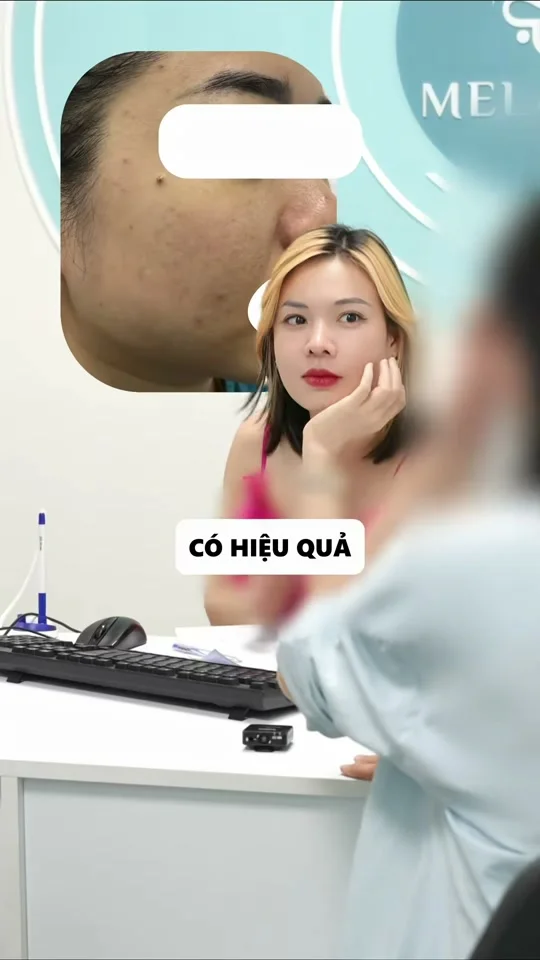
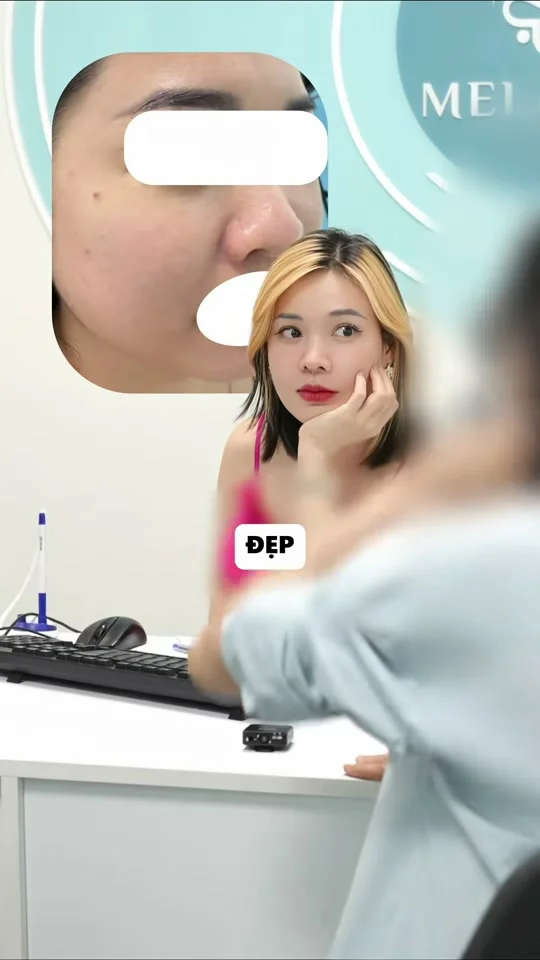
fix(kenh): update sequential frames for mh_khach_ke and add scroll-margin-top

diff --git a/logic-xay-kenh-tong-hop.html b/logic-xay-kenh-tong-hop.html
@@ -1431,6 +1431,7 @@
   }
 
   .lx-rw-showcase {
+    scroll-margin-top: 96px;
     margin-top: 16px;
     padding: 20px;
     background: #ffffff;
@@ -2177,31 +2178,31 @@
 </div>
 <div class="lx-rw-body">
 <div class="lx-rw-video-wrap">
-<video controls="" playsinline="" poster="https://media.fedu.vn/images/minh_hoa_viec_that/mh_khach_ke_03.webp" preload="metadata" src="https://media.fedu.vn/videos/mh_khach_ke_qua_vai.mp4"></video>
+<video controls="" playsinline="" poster="https://media.fedu.vn/images/minh_hoa_viec_that/mh_khach_ke_03.webp?v=2" preload="metadata" src="https://media.fedu.vn/videos/mh_khach_ke_qua_vai.mp4"></video>
 </div>
 <div class="lx-rw-shots">
 <div class="lx-rw-shot">
-<img alt="Cảnh 1 Quay qua vai khách tại bàn tư vấn" loading="lazy" src="https://media.fedu.vn/images/minh_hoa_viec_that/mh_khach_ke_01.webp"/>
+<img alt="Cảnh 1 Quay qua vai khách tại bàn tư vấn" loading="lazy" src="https://media.fedu.vn/images/minh_hoa_viec_that/mh_khach_ke_01.webp?v=2"/>
 <div class="lx-rw-shot-cap"><b>CẢNH 01 · 0–2s</b>Góc qua vai khách (không lộ mặt), ảnh da che mắt</div>
 </div>
 <div class="lx-rw-shot">
-<img alt="Cảnh 2 Giường khách đang làm thật" loading="lazy" src="https://media.fedu.vn/images/minh_hoa_viec_that/mh_khach_ke_02.webp"/>
+<img alt="Cảnh 2 Giường khách đang làm thật" loading="lazy" src="https://media.fedu.vn/images/minh_hoa_viec_that/mh_khach_ke_02.webp?v=2"/>
 <div class="lx-rw-shot-cap"><b>CẢNH 02 · 2–5s</b>Tiếng khách vẫn kể, hình cắt vào giường làm thật</div>
 </div>
 <div class="lx-rw-shot lx-rw-shot--highlight">
-<img alt="Cảnh 3 Toàn cảnh phòng 6 giường kín khách" loading="lazy" src="https://media.fedu.vn/images/minh_hoa_viec_that/mh_khach_ke_03.webp"/>
+<img alt="Cảnh 3 Toàn cảnh phòng 6 giường kín khách" loading="lazy" src="https://media.fedu.vn/images/minh_hoa_viec_that/mh_khach_ke_03.webp?v=2"/>
 <div class="lx-rw-shot-cap"><b>CẢNH 03 · 5–9s ⭐</b>Toàn cảnh 6 giường điều trị kín khách đang nằm</div>
 </div>
 <div class="lx-rw-shot lx-rw-shot--highlight">
-<img alt="Cảnh 4 Cận cảnh đi tia máy trên da thật" loading="lazy" src="https://media.fedu.vn/images/minh_hoa_viec_that/mh_khach_ke_04.webp"/>
+<img alt="Cảnh 4 Cận cảnh đi tia máy trên da thật" loading="lazy" src="https://media.fedu.vn/images/minh_hoa_viec_that/mh_khach_ke_04.webp?v=2"/>
 <div class="lx-rw-shot-cap"><b>CẢNH 04 · 9–12s ⭐</b>Cận tay đeo kính bảo hộ đi tia máy sát nền da</div>
 </div>
 <div class="lx-rw-shot">
-<img alt="Cảnh 5 Đứng cạnh giường theo dõi ca làm" loading="lazy" src="https://media.fedu.vn/images/minh_hoa_viec_that/mh_khach_ke_05.webp"/>
+<img alt="Cảnh 5 Đứng cạnh giường theo dõi ca làm" loading="lazy" src="https://media.fedu.vn/images/minh_hoa_viec_that/mh_khach_ke_05.webp?v=2"/>
 <div class="lx-rw-shot-cap"><b>CẢNH 05 · 12–17s</b>Đứng sát giường kiểm tra lúc khách kể chuyện</div>
 </div>
 <div class="lx-rw-shot">
-<img alt="Cảnh 6 Trò chuyện tự nhiên tại bàn có gương soi" loading="lazy" src="https://media.fedu.vn/images/minh_hoa_viec_that/mh_khach_ke_06.webp"/>
+<img alt="Cảnh 6 Trò chuyện tự nhiên tại bàn có gương soi" loading="lazy" src="https://media.fedu.vn/images/minh_hoa_viec_that/mh_khach_ke_06.webp?v=2"/>
 <div class="lx-rw-shot-cap"><b>CẢNH 06 · 18–32s</b>Về bàn tư vấn có gương soi, hỏi đáp tự nhiên</div>
 </div>
 </div>

diff --git a/trung-tam-kenh/logic-tong-hop.html b/trung-tam-kenh/logic-tong-hop.html
@@ -1431,6 +1431,7 @@
   }
 
   .lx-rw-showcase {
+    scroll-margin-top: 96px;
     margin-top: 16px;
     padding: 20px;
     background: #ffffff;
@@ -2177,31 +2178,31 @@
 </div>
 <div class="lx-rw-body">
 <div class="lx-rw-video-wrap">
-<video controls="" playsinline="" poster="https://media.fedu.vn/images/minh_hoa_viec_that/mh_khach_ke_03.webp" preload="metadata" src="https://media.fedu.vn/videos/mh_khach_ke_qua_vai.mp4"></video>
+<video controls="" playsinline="" poster="https://media.fedu.vn/images/minh_hoa_viec_that/mh_khach_ke_03.webp?v=2" preload="metadata" src="https://media.fedu.vn/videos/mh_khach_ke_qua_vai.mp4"></video>
 </div>
 <div class="lx-rw-shots">
 <div class="lx-rw-shot">
-<img alt="Cảnh 1 Quay qua vai khách tại bàn tư vấn" loading="lazy" src="https://media.fedu.vn/images/minh_hoa_viec_that/mh_khach_ke_01.webp"/>
+<img alt="Cảnh 1 Quay qua vai khách tại bàn tư vấn" loading="lazy" src="https://media.fedu.vn/images/minh_hoa_viec_that/mh_khach_ke_01.webp?v=2"/>
 <div class="lx-rw-shot-cap"><b>CẢNH 01 · 0–2s</b>Góc qua vai khách (không lộ mặt), ảnh da che mắt</div>
 </div>
 <div class="lx-rw-shot">
-<img alt="Cảnh 2 Giường khách đang làm thật" loading="lazy" src="https://media.fedu.vn/images/minh_hoa_viec_that/mh_khach_ke_02.webp"/>
+<img alt="Cảnh 2 Giường khách đang làm thật" loading="lazy" src="https://media.fedu.vn/images/minh_hoa_viec_that/mh_khach_ke_02.webp?v=2"/>
 <div class="lx-rw-shot-cap"><b>CẢNH 02 · 2–5s</b>Tiếng khách vẫn kể, hình cắt vào giường làm thật</div>
 </div>
 <div class="lx-rw-shot lx-rw-shot--highlight">
-<img alt="Cảnh 3 Toàn cảnh phòng 6 giường kín khách" loading="lazy" src="https://media.fedu.vn/images/minh_hoa_viec_that/mh_khach_ke_03.webp"/>
+<img alt="Cảnh 3 Toàn cảnh phòng 6 giường kín khách" loading="lazy" src="https://media.fedu.vn/images/minh_hoa_viec_that/mh_khach_ke_03.webp?v=2"/>
 <div class="lx-rw-shot-cap"><b>CẢNH 03 · 5–9s ⭐</b>Toàn cảnh 6 giường điều trị kín khách đang nằm</div>
 </div>
 <div class="lx-rw-shot lx-rw-shot--highlight">
-<img alt="Cảnh 4 Cận cảnh đi tia máy trên da thật" loading="lazy" src="https://media.fedu.vn/images/minh_hoa_viec_that/mh_khach_ke_04.webp"/>
+<img alt="Cảnh 4 Cận cảnh đi tia máy trên da thật" loading="lazy" src="https://media.fedu.vn/images/minh_hoa_viec_that/mh_khach_ke_04.webp?v=2"/>
 <div class="lx-rw-shot-cap"><b>CẢNH 04 · 9–12s ⭐</b>Cận tay đeo kính bảo hộ đi tia máy sát nền da</div>
 </div>
 <div class="lx-rw-shot">
-<img alt="Cảnh 5 Đứng cạnh giường theo dõi ca làm" loading="lazy" src="https://media.fedu.vn/images/minh_hoa_viec_that/mh_khach_ke_05.webp"/>
+<img alt="Cảnh 5 Đứng cạnh giường theo dõi ca làm" loading="lazy" src="https://media.fedu.vn/images/minh_hoa_viec_that/mh_khach_ke_05.webp?v=2"/>
 <div class="lx-rw-shot-cap"><b>CẢNH 05 · 12–17s</b>Đứng sát giường kiểm tra lúc khách kể chuyện</div>
 </div>
 <div class="lx-rw-shot">
-<img alt="Cảnh 6 Trò chuyện tự nhiên tại bàn có gương soi" loading="lazy" src="https://media.fedu.vn/images/minh_hoa_viec_that/mh_khach_ke_06.webp"/>
+<img alt="Cảnh 6 Trò chuyện tự nhiên tại bàn có gương soi" loading="lazy" src="https://media.fedu.vn/images/minh_hoa_viec_that/mh_khach_ke_06.webp?v=2"/>
 <div class="lx-rw-shot-cap"><b>CẢNH 06 · 18–32s</b>Về bàn tư vấn có gương soi, hỏi đáp tự nhiên</div>
 </div>
 </div>
